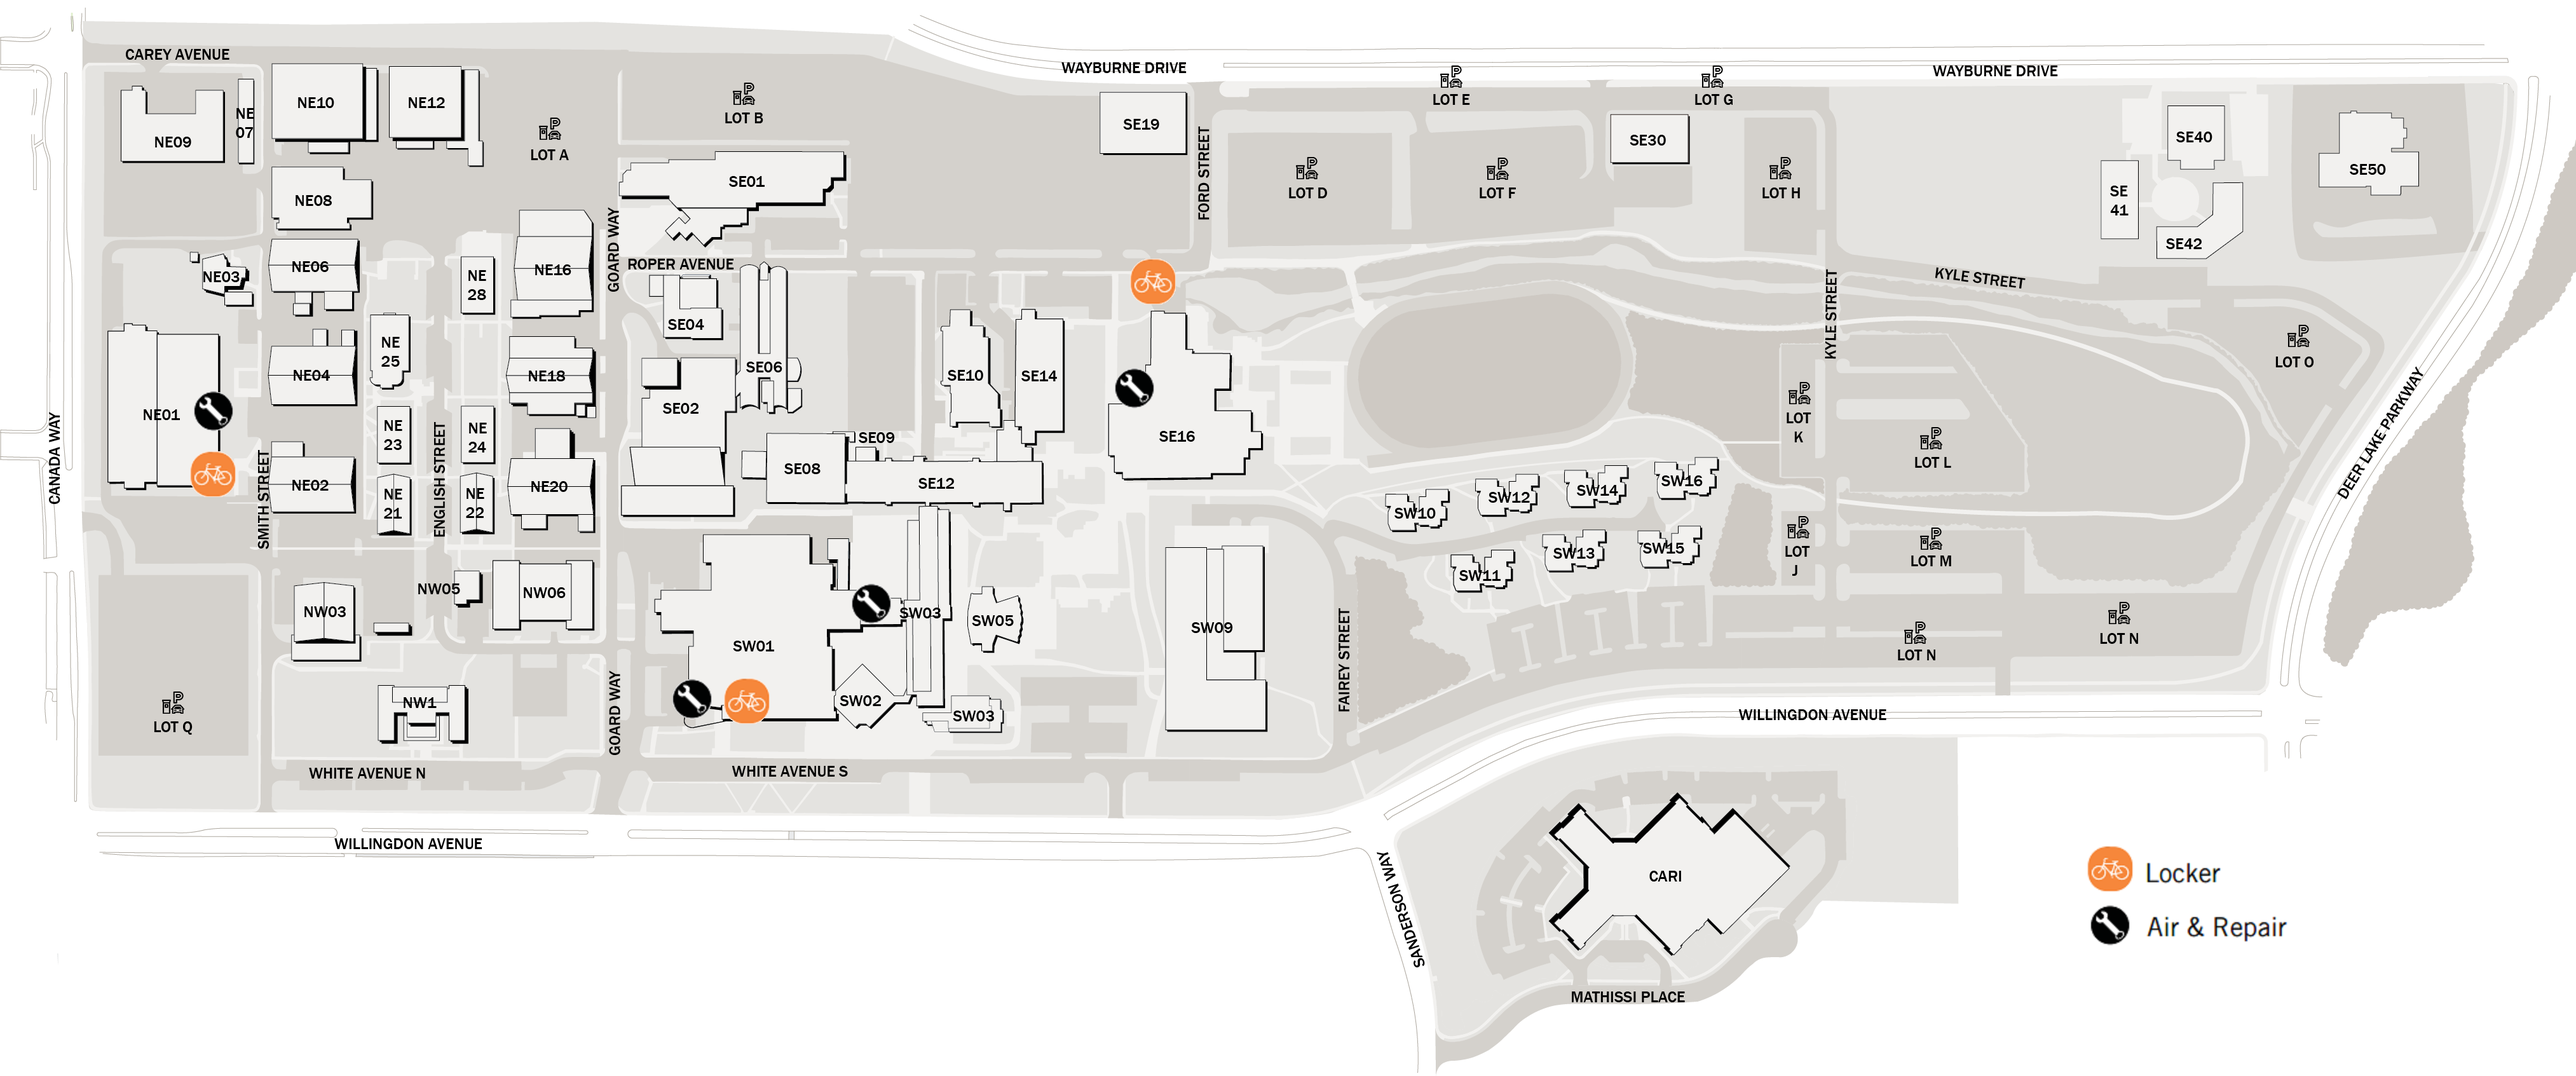
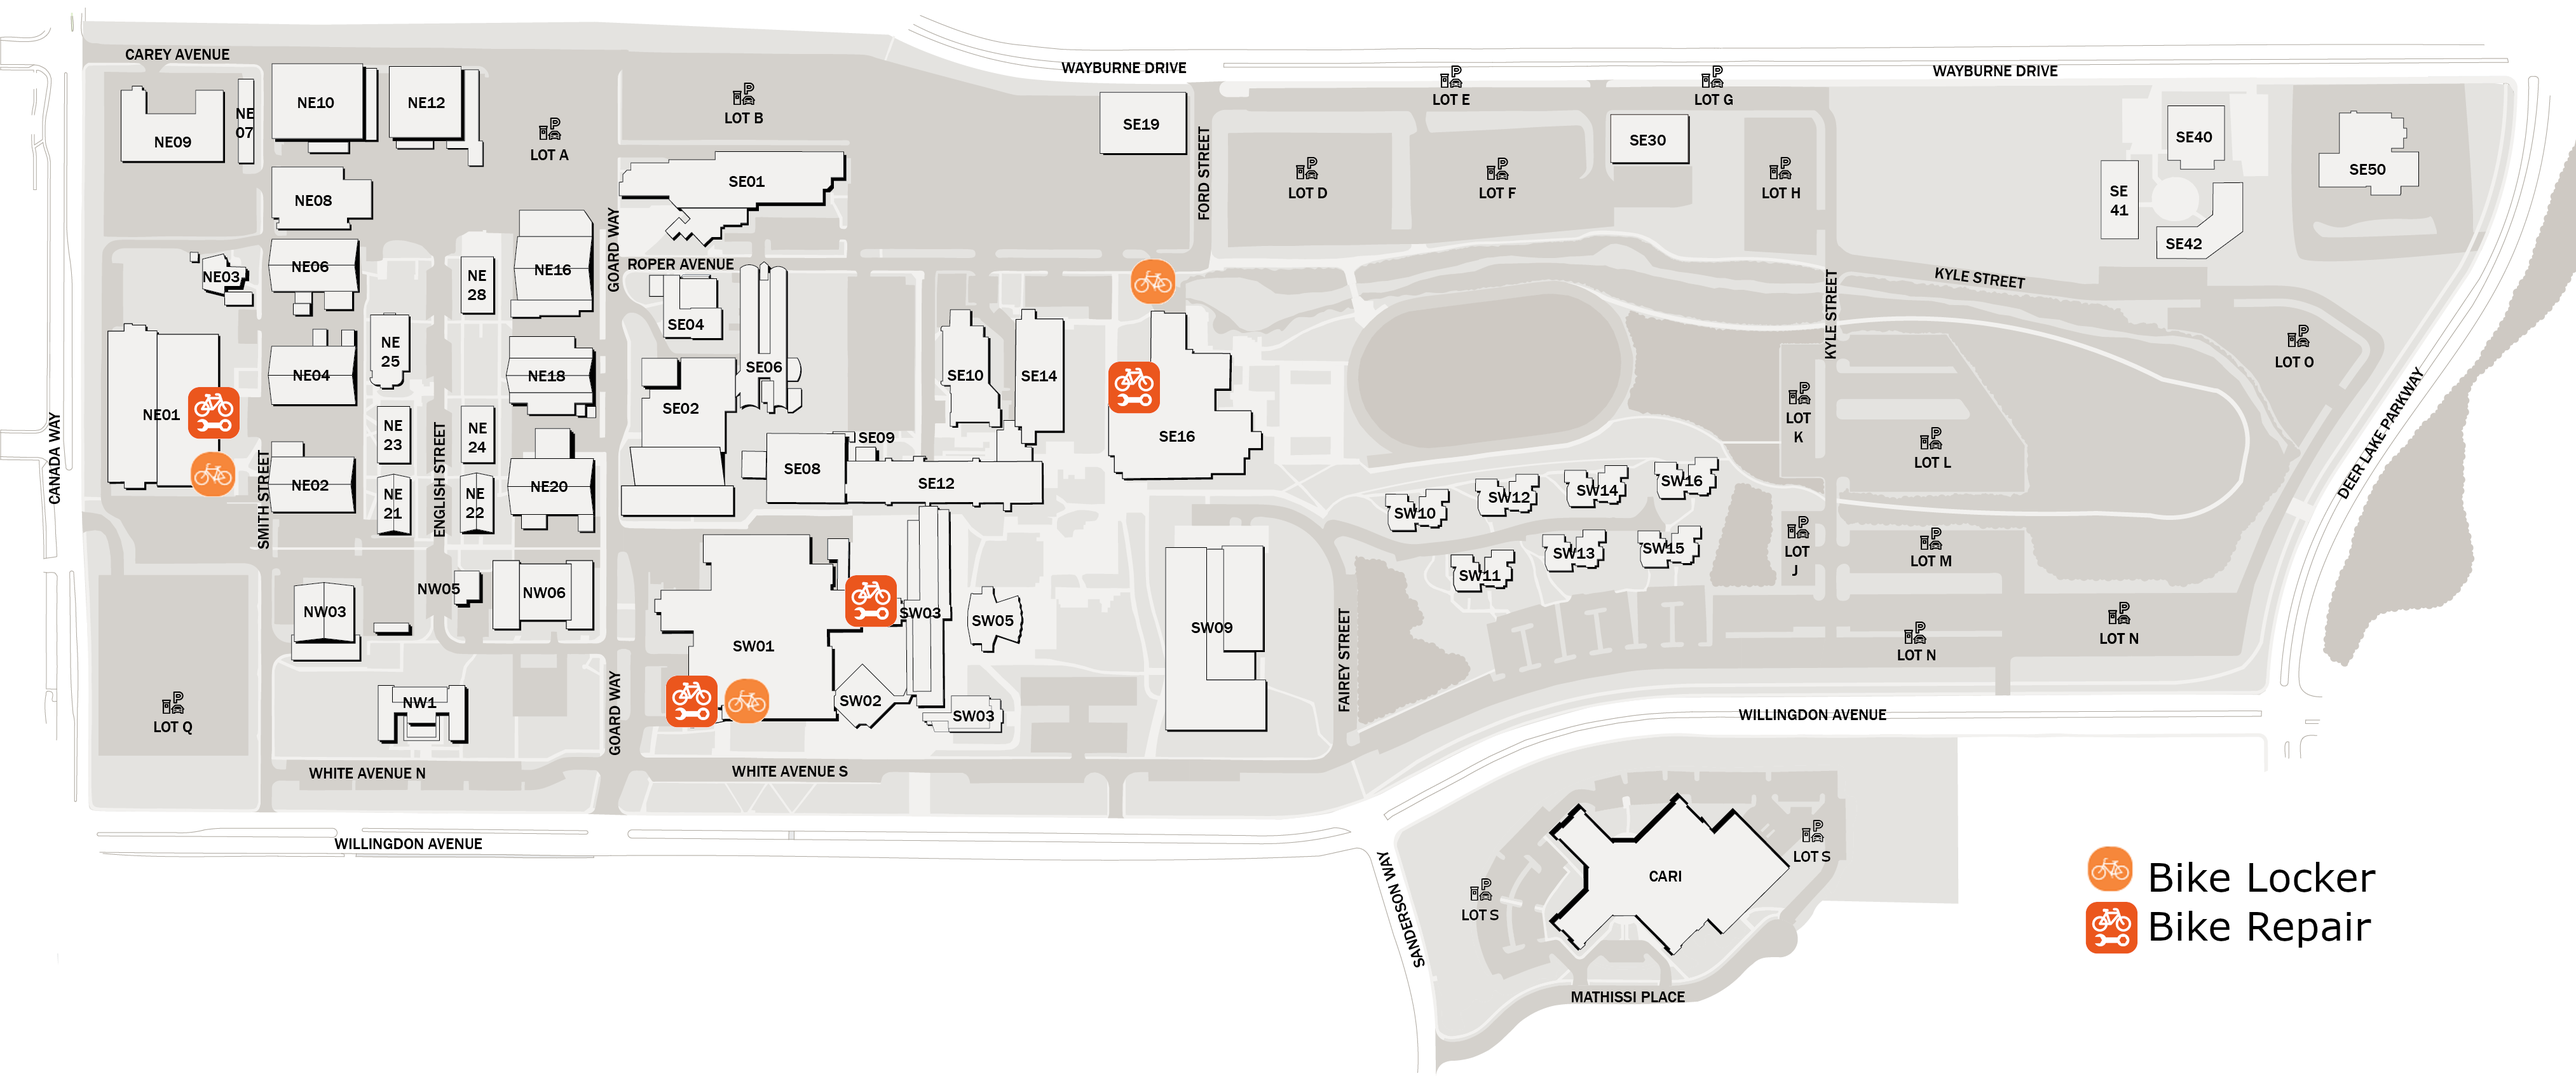
updated graphics and turned off highlighting
updated graphics and turned off highlighting since new icons stand out enough

diff --git a/public/js/highlight.js b/public/js/highlight.js
@@ -417,26 +417,28 @@ function selectNavBuildings(buildings) {
 }
 
 //this has no tooltips enabled, see selectLot for tooltip enabling
-function selectParking(stop,key) {
+function selectParking(stop, key, highlight) {
     id = 'image'
     $('area').bind('mouseover', function () {
-        $('#'+id).mapster('tooltip');
+        $('#' + id).mapster('tooltip');
     });
-    $('#'+id).mapster({
+    $('#' + id).mapster({
         initial_opts,
         mapKey: key,
-        strokeWidth:2,
+        strokeWidth: 2,
         strokeColor: 'F88017',
         mapValue: 'full',
         showToolTip: true,
         staticState: true,
-        fill:false
-        }
-        )
-        .mapster('set', true,stop, { // String goes here
+        fill: false
+    }
+    )
+    if (highlight) {
+        $('#' + id).mapster('set', true, stop, { // String goes here
             fill: true,
             fillColor: 'ffea2e'
         })
+    }
 }
 /* start of all the toggling on methods for each of the parking images */ 
 function toggleHandicap(){
@@ -519,7 +521,7 @@ function grabDescAndSelection(database_identifier,key){
         data = JSON.parse(data);
         for(i = 0; i<data.length;i++){
             if(data[i].section == database_identifier ){
-                selectParking(data[i].selection,key)
+                selectParking(data[i].selection,key,false)
                 if(data[i].description !== "" && data[i].description !== null){
                     showDetailsParking(data[i].description)
                 } else {
@@ -553,7 +555,7 @@ function selectLot() {
                 break;
             }
         }
-        selectParking(stops,key)
+        selectParking(stops,key,true)
         stops = stops.replace(/,/g, ",#")
         $('#' + stops).bind('mouseover', function () { // ID goes here
             $('#'+id).mapster('tooltip', this, $(this).attr('full'));
